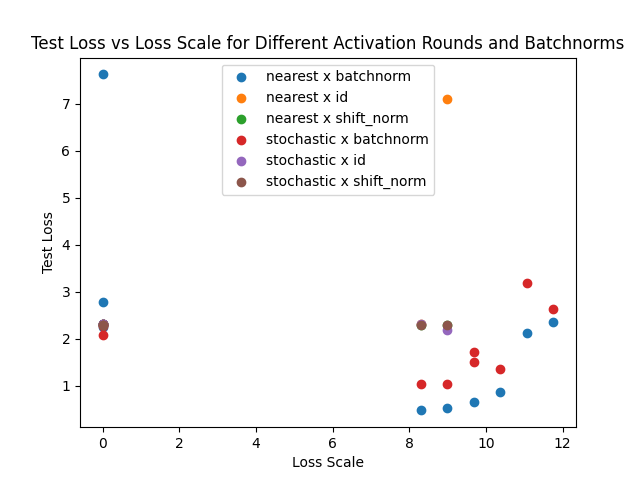
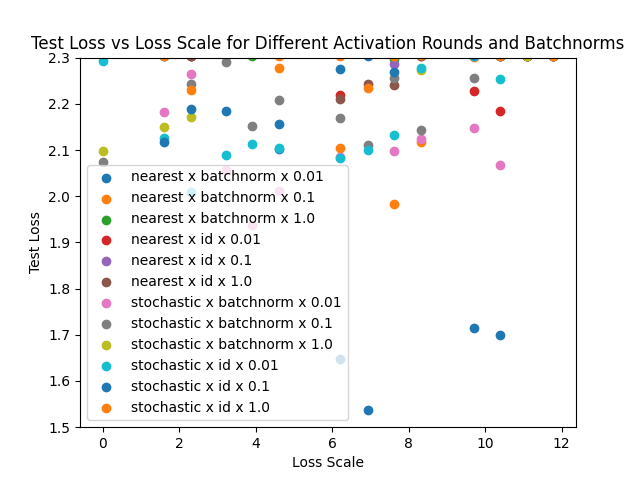
run mini-map-reduce

diff --git a/headers.py b/headers.py
@@ -1,0 +1,265 @@
+from os import path
+import os
+from typing import Optional
+
+# from data import MyDataModule
+
+# import torch
+# from lightning.pytorch import LightningDataModule, LightningModule, cli_lightning_logo
+# from lightning.pytorch.cli import LightningCLI
+# from lightning.pytorch.demos.mnist_datamodule import MNIST
+# from lightning.pytorch.utilities.imports import _TORCHVISION_AVAILABLE
+
+# from sr_experiments.network import PreResNet
+# from torch import nn
+# from qtorch.number import FloatingPoint
+# from qtorch.quant import Quantizer, quantizer
+# from qtorch.optim import OptimLP
+# from torch.optim import SGD
+# from torch.utils.data import DataLoader
+
+# import torch.nn.functional as F
+import argparse
+# import lightning as L
+# from utils import make_quant_func, Id
+# import copy
+# from track_tensor import visualise, instrument
+# import csv
+
+
+
+# from lightning.pytorch.loggers import TensorBoardLogger
+
+
+rounding_options_choices = ["nearest", "stochastic", ]
+
+parser = argparse.ArgumentParser(description=' Example')
+parser.add_argument('-b', "--batch-size", type=int,
+                    default=128, help='batch size')
+parser.add_argument('-l', "--learning-rate", type=float,
+                    default=0.1, help='learning rate')
+parser.add_argument('-m', "--momentum", type=float, default=0, help='momentum')
+parser.add_argument("--loss-scale", type=int, default=1000,
+                    help='loss scaling factor, 1 for no scaling')
+parser.add_argument("--weight-ew", type=int, default=3,
+                    help='exponent bit width for weight')
+parser.add_argument("--error-ew", type=int, default=3,
+                    help='exponent bit width for error')
+parser.add_argument("--gradient-ew", type=int, default=3,
+                    help='exponent bit width for gradient')
+parser.add_argument("--activation-ew", type=int, default=3,
+                    help='exponent bit width for activation')
+parser.add_argument('-w', "--weight-bw", type=int, default=3,
+                    help='mantissa bit width for weight')
+parser.add_argument('-e', "--error-bw", type=int, default=3,
+                    help='mantissa bit width for error')
+parser.add_argument('-g', "--gradient-bw", type=int,
+                    default=3, help='mantissa bit width for gradient')
+parser.add_argument('-a', "--activation-bw", type=int,
+                    default=3, help='mantissa bit width for activation')
+parser.add_argument("--weight-round", default="nearest",
+                    choices=rounding_options_choices, help='weight rounding method')
+parser.add_argument("--error-round",  default="nearest",
+                    choices=rounding_options_choices, help='error rounding method')
+parser.add_argument("--gradient-round", default="nearest",
+                    choices=rounding_options_choices, help='gradient rounding method')
+parser.add_argument("--activation-round", default="nearest",
+                    choices=rounding_options_choices, help='activation rounding method')
+parser.add_argument("--checkpoint-path", default=None, help='checkpoint path')
+parser.add_argument("--log-path", default="mix_precision_log", help='log path')
+parser.add_argument("--epochs", type=int, default=100, help='epochs')
+parser.add_argument("--seed", type=int, default=0, help='seed')
+parser.add_argument("--check-number-ranges", type=lambda x: x=="True", default=False, help='track model and check number ranges')
+parser.add_argument("--mix-precision", type=lambda x: x=="True",default=True, help='is mix precision train')
+parser.add_argument("--clip", type=float, default=1, help='gradient clip')
+parser.add_argument("--batchnorm", type=str, default="id", help='batchnorm')
+
+# device = "cuda" if torch.cuda.is_available() else "cpu"
+
+args = parser.parse_args()
+
+# from track_tensor import instrument
+
+
+# class shift_norm(nn.Module):
+#     def __init__(self, *args, **kwargs):
+#         super().__init__()
+    
+#     def forward(self, x: torch.Tensor):
+#         min_representable = 2**(-8)
+#         x_min = x.min()
+#         scale = x_min / min_representable
+#         return x * 4 / scale
+
+
+
+# class LitClassifier(LightningModule):
+#     def _apply_model_weights(self, model, quant_func):
+#         for m in model.modules():
+#             if isinstance(m, nn.Conv2d) or isinstance(m, nn.Linear):
+#                 m.weight.data = quant_func(m.weight.data)
+#                 if m.bias is not None:
+#                     m.bias.data = quant_func(m.bias.data)
+
+#     def __init__(self, args):
+#         super().__init__()
+#         def make_ae_quant(): return Id()
+#         self.args = args
+#         quant_funcs = make_quant_func(args)
+#         self.weight_quant = quant_funcs["weight_quant"]
+#         self.grad_quant = quant_funcs["grad_quant"]
+#         make_ae_quant = quant_funcs["make_ae_quant"]
+#         if args.batchnorm == "batchnorm":
+#             norm = nn.BatchNorm2d
+#         elif args.batchnorm == "shift_norm":
+#             norm = shift_norm
+#         else:
+#             norm = Id
+#         self.backbone = PreResNet(make_ae_quant, norm=norm)
+#         self.reference_model = PreResNet(lambda: Id(), norm =norm)
+#         if args.checkpoint_path:
+#             ckpt = torch.load(args.checkpoint_path)
+#             self.load_state_dict(ckpt["state_dict"])
+#         self._apply_model_weights(self.backbone, self.weight_quant)
+#         # self.backbone = torch.jit.trace(self.backbone, torch.rand(1, 3, 32, 32))
+#         self.automatic_optimization = False
+#         self.save_hyperparameters(ignore=["backbone"])
+
+#     def forward(self, x):
+#         # use forward for inference/predictions
+#         return self.backbone(x)
+
+#     def copy_model_weights_to_reference_weights(self):
+#         for (name, param), (ref_name, ref_param) in zip(
+#             self.backbone.named_parameters(),
+#                 self.reference_model.named_parameters()):
+#             ref_param.data = param.data.clone()
+
+#     def log_dict_hist(self, dict, prefix=""):
+#         tensorboard = self.logger.experiment
+#         for name, tensor in dict.items():
+#             tensorboard.add_histogram(
+#                 prefix + name, tensor, self.current_epoch)
+
+#     def opt_step(self, loss, opt):
+#         opt.step()
+
+#     def model_grads_to_master_grads(self):
+#         for model, master in zip(self.backbone.parameters(), self.reference_model.parameters()):
+#             if master.grad is None:
+#                 master.grad = master.data.new(*master.data.size())
+#             master.grad.data.copy_(self.grad_quant(model.grad.data))
+
+#     def master_grad_apply(self, fn):
+#         for master in (self.reference_model.parameters()):
+#             if master.grad is None:
+#                 master.grad = master.data.new(*master.data.size())
+#             master.grad.data = fn(master.grad.data)
+
+#     def master_params_to_model_params(self):
+#         for model, master in zip(self.backbone.parameters(), self.reference_model.parameters()):
+#             model.data.copy_(self.weight_quant(master.data))
+
+#     def training_step(self, batch, batch_idx):
+#         x, y = batch
+#         if self.trainer.is_last_batch:
+#             m = copy.deepcopy(self.backbone)
+#             stats = instrument(m)
+#             y_hat =m(x)
+#             loss = F.cross_entropy(y_hat, y)
+#             loss = loss * args.loss_scale
+#             loss.backward()
+#             visualise(stats, dir=f"{args.log_path}/{make_version_name(self.args)}/test{self.current_epoch}.png")
+#         y_hat = self.backbone(x)
+#         loss = F.cross_entropy(y_hat, y)
+#         self.log("train_loss", loss, on_epoch=True,
+#                  on_step=True, prog_bar=True)
+#         loss = loss * args.loss_scale
+#         opt = self.optimizers()
+#         self.backbone.zero_grad()
+#         self.manual_backward(loss)
+#         if args.mix_precision:
+#             self.model_grads_to_master_grads()
+#         self.master_grad_apply(lambda x: x / args.loss_scale)
+#         torch.nn.utils.clip_grad_norm_(self.reference_model.parameters(), args.clip)
+#         opt.step()
+#         if args.mix_precision:
+#             self.master_params_to_model_params()
+#         self._apply_model_weights(self.backbone, self.weight_quant)
+#         return loss
+
+#     def validation_step(self, batch, batch_idx):
+#         x, y = batch
+#         y_hat = self(x)
+#         loss = F.cross_entropy(y_hat, y)
+#         acc = (y_hat.argmax(dim=1) == y).float().mean()
+#         # self.log("valid_loss", loss, on_step=True)
+#         self.log_dict({"valid_loss": loss, "valid_acc": acc, },
+#                       on_epoch=True, prog_bar=True)
+
+#     def test_step(self, batch, batch_idx):
+#         x, y = batch
+#         y_hat = self(x)
+#         loss = F.cross_entropy(y_hat, y)
+#         acc = (y_hat.argmax(dim=1) == y).float().mean()
+#         self.log_dict({"test_loss": loss, "test_acc": acc, },
+#                       on_epoch=True, prog_bar=True, logger=True)
+
+#     def predict_step(self, batch, batch_idx, dataloader_idx=None):
+#         x, y = batch
+#         return self(x)
+
+#     def configure_optimizers(self):
+#         # self.hparams available because we called self.save_hyperparameters()
+#         optimizer = SGD(self.parameters(),
+#                         lr=self.args.learning_rate,
+#                         momentum=self.args.momentum)
+#         return optimizer
+
+
+# def make_version_name(args):
+#     return (
+#         ("mix_precision_" if args.mix_precision else "no_mix_") +
+#         f"_ls{args.loss_scale}_"
+#         f"w{args.weight_bw}{args.weight_ew}{args.weight_round[0]}"
+#         f"e{args.error_bw}{args.error_ew}{args.error_round[0]}"
+#         f"g{args.gradient_bw}{args.gradient_ew}{args.gradient_round[0]}"
+#         f"a{args.activation_bw}{args.activation_ew}{args.activation_round[0]}"
+#         f"lr{args.learning_rate}"
+#         f"b{args.batch_size}"
+#         f"clip{args.clip}"
+#         f"momentum{args.momentum}"
+#         f"_norm{args.batchnorm}"
+#     )
+
+
+
+def cli_main():
+    args = parser.parse_args()
+    for k, v in args.__dict__.items():
+        print(f"{k}", end=",")
+    # torch.manual_seed(args.seed)
+    # model = LitClassifier(args)
+    # print(args)
+    # logger = TensorBoardLogger(
+    #     args.log_path, name=make_version_name(args), )
+    # trainer = L.Trainer(accelerator="gpu", max_epochs=args.epochs,
+    #                     logger=logger, enable_progress_bar=True)
+    # datamodule = MyDataModule(args.batch_size)
+    # # trainer.test(model, datamodule=datamodule)
+    # trainer.fit(model, datamodule=datamodule)
+    # result, *_ = trainer.test(ckpt_path="best", dataloaders=datamodule.train_dataloader())
+    # csv_path = f"{args.log_path}/result.csv"
+    # os.makedirs(args.log_path, exist_ok=True)
+    # with open(csv_path, "a+") as f:
+    #     to_write = {}
+    #     to_write.update(args.__dict__)
+    #     # to_write.update(result)
+    #     writer = csv.DictWriter(f, fieldnames=to_write.keys())
+    #     writer.writerow(to_write)
+    # predictions = trainer.predict(ckpt_path="best", datamodule=datamodule)
+    # print(predictions[0])
+
+
+if __name__ == "__main__":
+    cli_main()

diff --git a/mini-map-reduce.py b/mini-map-reduce.py
@@ -205,16 +205,16 @@ if __name__ == "__main__":
         "activation-bw": 3,
         "batchnorm": "id",
         "loss-scale": 1,
-        "momentum": 0.7,
+        "momentum": 0,
         "check-number-ranges": True,
         "mix-precision": True,
-        "log-path": "results/loss_scale_batchnorm_clip_experiment",
+        "log-path": "results/loss_scale",
     }
     params = []
     for rounding in ["nearest", "stochastic"]:
-        for loss_scale in [1, 5, 10, 25, 50, 100, 500, 1024, 2048, 4096, 16384, 32768, 65546, 131072]:
+        for loss_scale in [128, 256, 512, 1024]:
             for batchnorm in ["id", "batchnorm"]:
-                for clip in [0.01, 0.1, 1]:
+                for clip in [65536]:
                     this_param = base_params.copy()
                     this_param["weight-round"] = rounding
                     this_param["error-round"] = rounding

diff --git a/mix_precision_train.py b/mix_precision_train.py
@@ -162,14 +162,15 @@ class LitClassifier(LightningModule):
 
     def training_step(self, batch, batch_idx):
         x, y = batch
-        if self.trainer.is_last_batch:
+        if True:
+        #if self.trainer.is_last_batch:
             m = copy.deepcopy(self.backbone)
             stats = instrument(m)
             y_hat =m(x)
             loss = F.cross_entropy(y_hat, y)
             loss = loss * args.loss_scale
             loss.backward()
-            visualise(stats, dir=f"{args.log_path}/{make_version_name(self.args)}/test{self.current_epoch}.png")
+            visualise(stats, dir=f"{args.log_path}/{make_version_name(self.args)}/test{self.current_epoch}_{batch_idx}.png")
         y_hat = self.backbone(x)
         loss = F.cross_entropy(y_hat, y)
         self.log("train_loss", loss, on_epoch=True,

diff --git a/plot_csv.py b/plot_csv.py
@@ -3,15 +3,18 @@ import matplotlib.pyplot as plt
 import numpy as np
 
 # Step 1: Read the CSV file
-df = pd.read_csv('result.csv')
+df = pd.read_csv('results/loss_scale_batchnorm_clip_experiment/result.csv')
 
 # Step 2: Preprocess the Data
 # Ensure that 'activation_round', 'batchnorm', 'loss_scale', and 'test_loss' are in the correct format
 
+print(df.keys())
+
 df["test_loss"] = df["test_loss"].astype(float)
 # Step 3: Plot the Graph
 # Create a unique identifier for each combination of 'activation_round' and 'batchnorm'
-df['group'] = df['activation_round'].astype(str) + ' x ' + df['batchnorm']
+df['group'] = df['activation_round'].astype(str) + ' x ' + df['batchnorm'] + ' x ' + df['clip'].astype(str)
+plt.ylim(1.5, 2.3)
 
 
 # Plot each group
